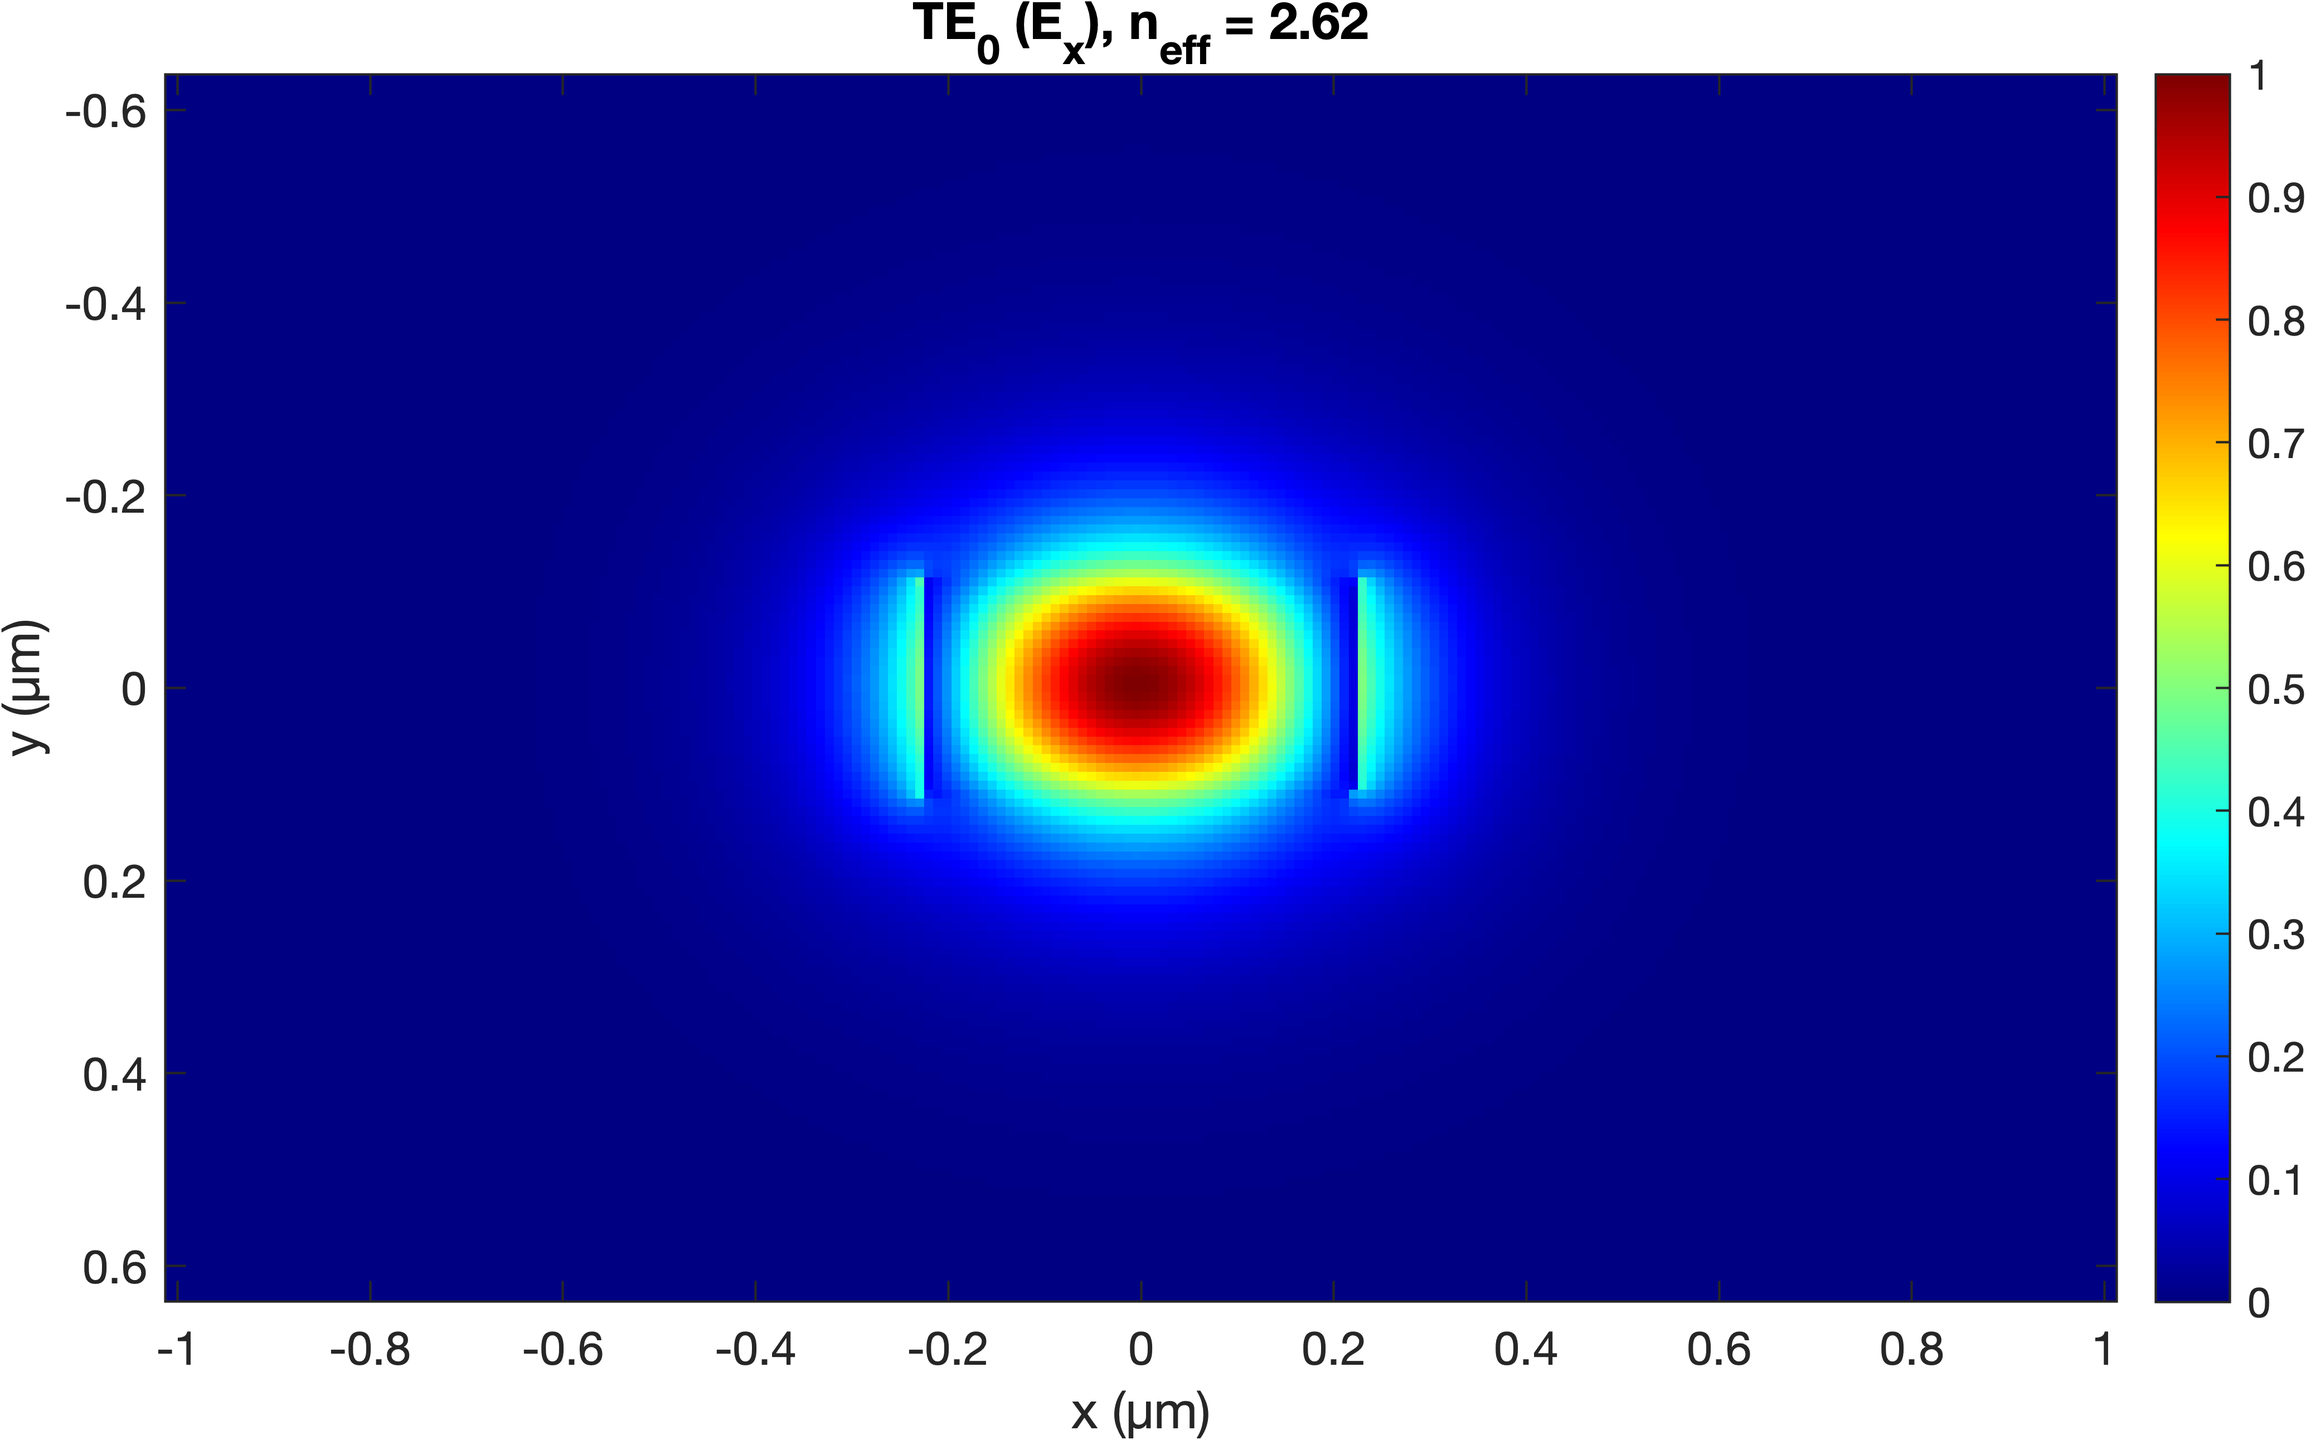
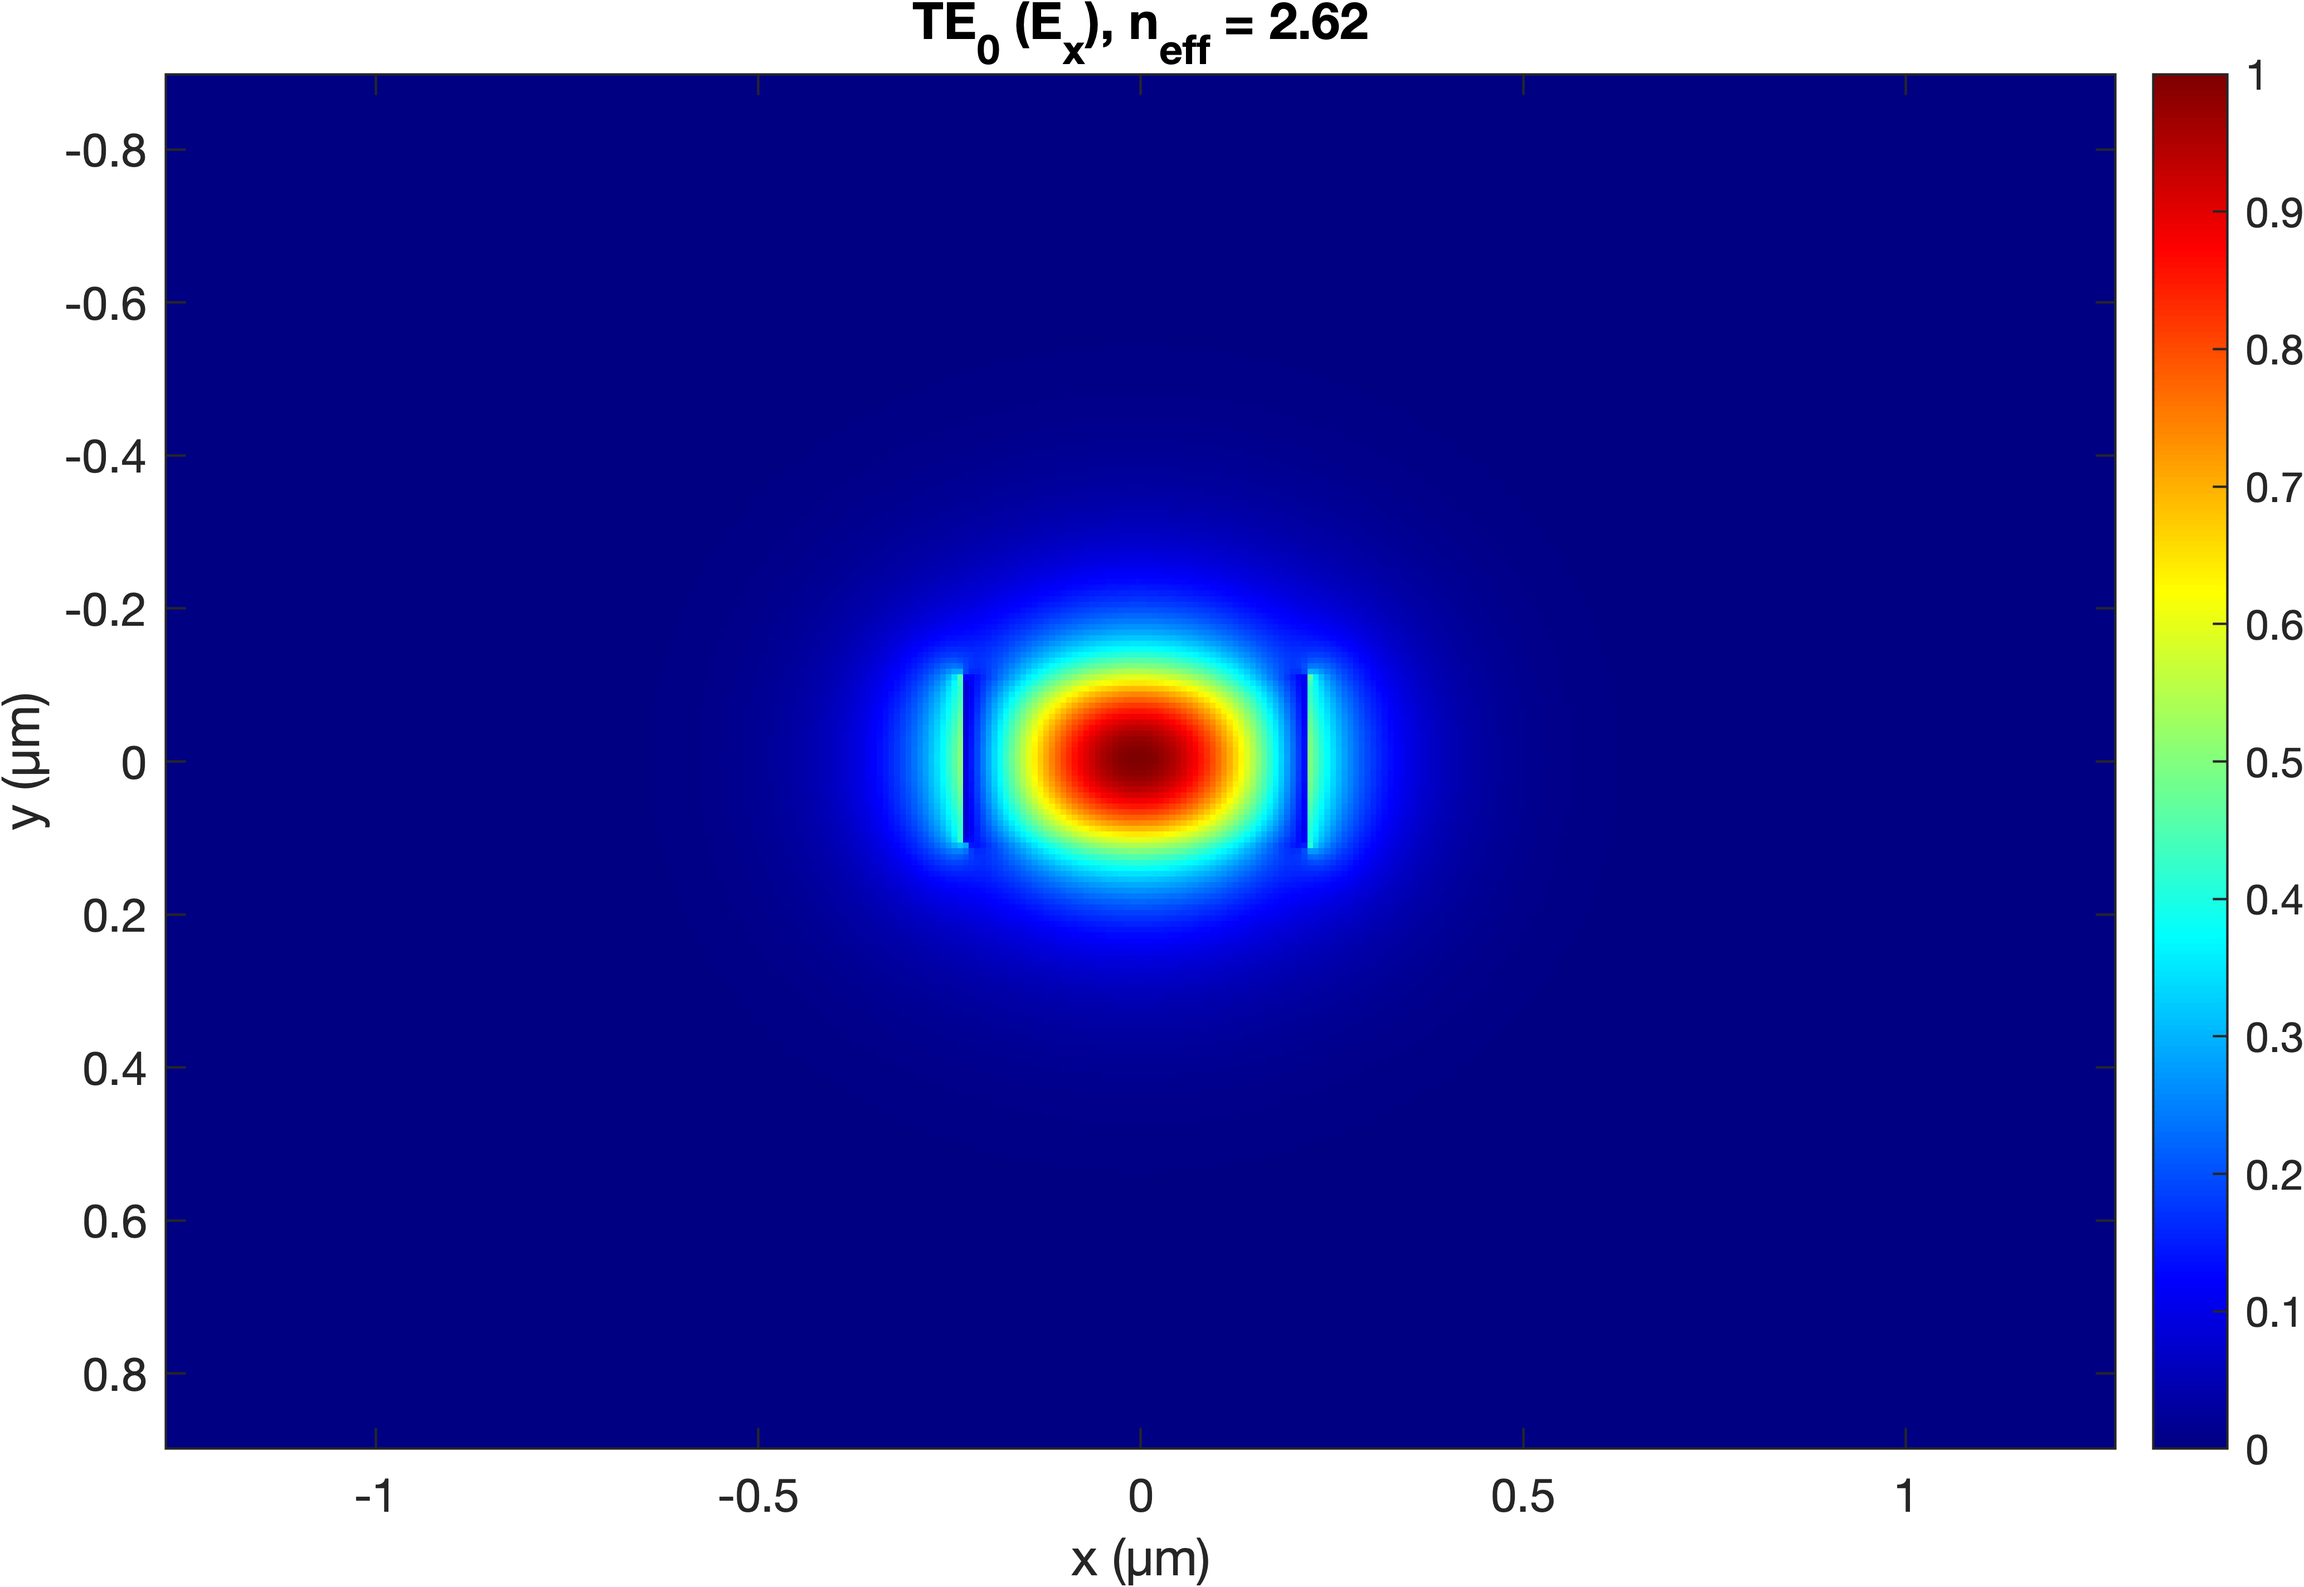
update task 2 done

diff --git a/Task2/main.m b/Task2/main.m
@@ -1,62 +1,117 @@
-clear all; close all; clc;
+%% Buried Waveguide Mode Analysis Script
+% This script analyzes vectorial mode profiles and effective indices
+% for TE0 and TM0 modes in rib waveguides at different wavelengths
 
+% Initialize workspace
+clear all; 
+close all; 
+clc;
+
+% Add functions directory to path
 addpath(fullfile(pwd, 'functions'));
 
-% Task 1
-% visualize the vectorial mode profile of the TE0 and TM0 modes for 1310 and 1550 nm 
+%% ========================================================================
+%% TASK 1: Visualize vectorial mode profiles for TE0 and TM0 modes
+%% ========================================================================
 
-lam0 = 1550;
-rib_w = 450;
+fprintf('=== TASK 1: Mode Profile Visualization ===\n');
 
+% --- Analysis at 1550 nm wavelength ---
+fprintf('Analyzing modes at 1550 nm...\n');
+lam0 = 1550;        % Wavelength [nm]
+rib_w = 45;         % Rib width [nm]
+
+% Solve for waveguide modes
 [Ex, Ey, Ez, Hx, Hy, Hz, NEFF, Gamma_Si] = rib_waveguide_solver(lam0, rib_w);
-% plot_Exyz_neff(Ex, Ey, Ez, NEFF)
 
-plot_domain(1)
+% Plot domain structure
+plot_domain(1);
 
-plot_single_field(Ex, 'TE_0 (E_x)', 1, NEFF,['TE0_lam0_' num2str(lam0) '.png'])
-plot_single_field(Ey, 'TM_0 (E_y)', 2, NEFF,['TM0_lam0_' num2str(lam0) '.png'])
+% Plot TE0 mode (Ex component)
+plot_single_field(Ex, 'TE_0 (E_x)', 1, NEFF, ['TE0_lam0_' num2str(lam0) '.png']);
 
-lam0 = 1310;
-rib_w = 450;
+% Plot TM0 mode (Ey component)  
+plot_single_field(Ey, 'TM_0 (E_y)', 2, NEFF, ['TM0_lam0_' num2str(lam0) '.png']);
 
+% --- Analysis at 1310 nm wavelength ---
+fprintf('Analyzing modes at 1310 nm...\n');
+lam0 = 1310;        % Wavelength [nm]
+rib_w = 450;        % Rib width [nm]
+
+% Solve for waveguide modes
 [Ex, Ey, Ez, Hx, Hy, Hz, NEFF, Gamma_Si] = rib_waveguide_solver(lam0, rib_w);
-% plot_Exyz_neff(Ex, Ey, Ez, NEFF)
 
-plot_single_field(Ex, 'TE_0 (E_x)', 1, NEFF,['TE0_lam0_' num2str(lam0) '.png'])
-plot_single_field(Ey, 'TM_0 (E_y)', 2, NEFF,['TM0_lam0_' num2str(lam0) '.png'])
+% Plot TE0 mode (Ex component)
+plot_single_field(Ex, 'TE_0 (E_x)', 1, NEFF, ['TE0_lam0_' num2str(lam0) '.png']);
 
-% Task 2
-% plot the effective index of the first 5 modes between 1300 and 1600 nm.
+% Plot TM0 mode (Ey component)
+plot_single_field(Ey, 'TM_0 (E_y)', 2, NEFF, ['TM0_lam0_' num2str(lam0) '.png']);
 
-lam0s = 1300:25:1600;
-rib_w = 450;
-NEFFs = zeros(length(lam0s), 5);
+%% ========================================================================
+%% TASK 2: Effective index vs wavelength for first 5 modes
+%% ========================================================================
 
+fprintf('\n=== TASK 2: Effective Index vs Wavelength ===\n');
+
+% Define wavelength range and waveguide parameters
+lam0s = 1300:100:1600;      % Wavelength range [nm]
+rib_w = 450;                % Rib width [nm]
+num_modes = 5;              % Number of modes to analyze
+
+% Initialize storage for effective indices
+NEFFs = zeros(length(lam0s), num_modes);
+
+% Calculate effective indices for each wavelength
 for i = 1:length(lam0s)
+    fprintf('Calculating modes for wavelength: %d nm\n', lam0s(i));
+    
+    % Solve waveguide for current wavelength
     [Ex, Ey, Ez, Hx, Hy, Hz, NEFF, Gamma_Si] = rib_waveguide_solver(lam0s(i), rib_w);
+    
+    % Store effective indices for first 5 modes
     NEFFs(i, :) = NEFF;
 end
 
+% Plot effective index vs wavelength
 plot_neff_vs_wavelength(lam0s, NEFFs, 'neff_vs_wavelength.png');
 
-% Task 3
-% Why has 450 nm width become the “industry standard”?
-lam0s = 1300:50:1600; % nm
-rib_ws = 200:25:800; % nm
-cf_Hs = zeros(length(rib_ws), length(lam0s));
-NEFFs = zeros(length(rib_ws), length(lam0s), 5);
+%% ========================================================================
+%% TASK 3: Investigation of 450 nm width as industry standard
+%% ========================================================================
+
+fprintf('\n=== TASK 3: Why 450 nm Width is Industry Standard ===\n');
+
+% Define parameter ranges for comprehensive analysis
+lam0s = 1300:50:1600;       % Wavelength range [nm] (finer resolution)
+rib_ws = 200:25:800;        % Rib width range [nm]
+
+% Initialize storage arrays
+cf_Hs = zeros(length(rib_ws), length(lam0s));           % Confinement factors
+NEFFs = zeros(length(rib_ws), length(lam0s), 5);       % Effective indices
+
+% Nested loop for parameter sweep
+fprintf('Starting parameter sweep analysis...\n');
+fprintf('Total calculations: %d\n', length(rib_ws) * length(lam0s));
 
 for i = 1:length(rib_ws)
+    fprintf('\nAnalyzing rib width: %d nm\n', rib_ws(i));
+    
     for j = 1:length(lam0s)
-        fprintf('Calculating for rib width %d nm at wavelength %d nm...\n', rib_ws(i), lam0s(j));
-        % Call the solver for each combination of rib width and wavelength
+        fprintf('  Wavelength: %d nm (Progress: %.1f%%)\n', ...
+                lam0s(j), ((i-1)*length(lam0s) + j)/(length(rib_ws)*length(lam0s))*100);
+        
+        % Solve waveguide for current parameter combination
         [Ex, Ey, Ez, Hx, Hy, Hz, NEFF, cf_H] = rib_waveguide_solver(lam0s(j), rib_ws(i));
-        cf_Hs(i, j) = cf_H; % Store the confinement factor
-        NEFFs(i, j, :) = NEFF; % Store the effective index of the first mode
+        
+        % Store results
+        cf_Hs(i, j) = cf_H;                    % Confinement factor
+        NEFFs(i, j, :) = NEFF;                 % Effective indices for all modes
     end
 end
 
-save('confinement.mat', 'cf_H')
-save('NEFFs_all.mat', 'NEFFs')
-
+% Plot analysis results
+fprintf('\nGenerating analysis plot...\n');
 plot_neff_vs_cf(rib_ws, lam0s, cf_Hs, 'neff_vs_cf_Hs.png');
+
+fprintf('\n=== Analysis Complete ===\n');
+fprintf('All plots have been saved to the current directory.\n');

diff --git a/Task2/functions/plot_neff_vs_wavelength.m b/Task2/functions/plot_neff_vs_wavelength.m
@@ -5,7 +5,7 @@ global xa ya ER2 xa2 ya2 NMODES Nx Ny rib_n1 rib_n2
 colors = {'#1f77b4', '#ff7f0e', '#2ca02c', '#d62728', '#9467bd'};
 mode_names = {'TE_0', 'TM_0', 'TE_1', 'TM_1', 'TE_2'};
 
-figure('Position', [100, 100, 800, 400]);
+figure('Position', [100, 100, 600, 250]);
 hold on;
 for m = 1:5
     plot(lam0s, NEFFs(:, m), 'o-', 'Color', colors{m}, 'LineWidth', 2, ...
@@ -16,7 +16,7 @@ xlabel('Wavelength (nm)');
 ylabel('Effective Index (n_{eff})');
 title('Effective Index vs Wavelength');
 grid on;
-legend('Location', 'best');
+legend('Location', 'best', 'NumColumns', 2);
 xlim([min(lam0s)-20 max(lam0s)+20]);
 
 if nargin >= 3 && ~isempty(save_name)
@@ -25,7 +25,7 @@ if nargin >= 3 && ~isempty(save_name)
     end
     set(gcf, 'Color', 'white');
     set(gca, 'LooseInset', get(gca,'TightInset'));
-    exportgraphics(gcf, fullfile('imgs', save_name), 'Resolution', 600);
+    exportgraphics(gcf, fullfile('imgs', save_name), 'Resolution', 1200);
     fprintf('Plot saved as %s\n', fullfile('imgs', save_name));
 end
 

diff --git a/Task2/functions/plot_neff_vs_cf.m b/Task2/functions/plot_neff_vs_cf.m
@@ -8,7 +8,7 @@ if size(cf_Hs,1) ~= numel(rib_ws) && size(cf_Hs,2) == numel(rib_ws)
     cf_Hs = cf_Hs.'; % make rows = widths
 end
 
-figure('Position',[120,120,780,420]); hold on; grid on;
+figure('Position',[120,120,700,300]); hold on; grid on;
 colors = lines(numel(lam0s));
 
 for j = 1:numel(lam0s)
@@ -31,7 +31,7 @@ ylim([0, .35]);
 if nargin >= 4 && ~isempty(save_name)
     if ~exist('imgs','dir'); mkdir('imgs'); end
     set(gcf,'Color','w');
-    exportgraphics(gcf, fullfile('imgs', save_name), 'Resolution', 600);
+    exportgraphics(gcf, fullfile('imgs', save_name), 'Resolution', 1200);
     fprintf('Plot saved as %s\n', fullfile('imgs', save_name));
 end
 

diff --git a/Task2/functions/plot_domain.m b/Task2/functions/plot_domain.m
@@ -17,7 +17,7 @@ colorbar;
 colormap('parula');
 xlabel('x (μm)');
 ylabel('y (μm)');
-title('Permittivity Distribution');
+title('Refractive Index Distribution');
 
 % Tight layout
 set(gca, 'Position', [0.15 0.15 0.7 0.7]);
